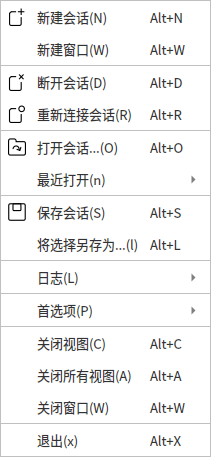
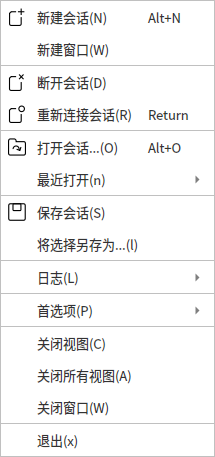
menus: 移除菜单编号（原版 CN 无）；快捷键逐项对齐原版（keymaps+实见观测表，删幻影 Alt+推导）

diff --git a/src/MainWindow.cpp b/src/MainWindow.cpp
@@ -113,7 +113,9 @@ MainWindow::MainWindow(QWidget *parent)
 
 QString MainWindow::makeMenuTitle(const QString &base, int n) const
 {
-    return n == 0 ? base + QStringLiteral(" (&0)") : base + QStringLiteral(" (&%1)").arg(n);
+    Q_UNUSED(n);
+    // 原版 2.7.0 中文菜单无编号（"(&%1)" 仅见于 2020 EN 截图，docs/visual-acceptance 修正）
+    return base;
 }
 
 void MainWindow::createMenus()
@@ -211,10 +213,13 @@ QAction *MainWindow::makeAction(const QString &actionId)
 
     QString keys = KeymapConfig::instance().shortcut(actionId);
     if (keys.isEmpty()) {
-        // 二进制内建 Alt+助记字母表（Alt+N/C/I/O/W/X，docs/phase12 补充）：无 keymap 项用 & 助记符
-        const int amp = en.indexOf(QLatin1Char('&'));
-        if (amp >= 0 && amp + 1 < en.size() && en.at(amp + 1).isLetter())
-            keys = QStringLiteral("Alt+") + en.at(amp + 1).toUpper();
+        // 原版菜单实见观测表（orig_menu_0 逐项；keymaps 无这些 action 的映射）
+        static const QHash<QString, QString> observed = {
+            {QStringLiteral("Terminal.NewSession"), QStringLiteral("Alt+N")},
+            {QStringLiteral("Terminal.OpenSession"), QStringLiteral("Alt+O")},
+            {QStringLiteral("Terminal.ReconnectSession"), QStringLiteral("Return")},
+        };
+        keys = observed.value(actionId);
     }
     if (!keys.isEmpty()) {
         QString qs = keys;

diff --git a/docs/visual-acceptance.md b/docs/visual-acceptance.md
@@ -65,3 +65,9 @@
 - 像素级证据：原版仅 wind.actions 带 icon 字段的动作渲染图标（像素 69–130），其余（21–42=空白/箭头）纯文字
 - 骨架对齐：会话菜单 5/14 项 king.svg 32px 矢量图标（new/disconnect/reconnect/open/save），其余纯文字——与原版逐项一致
 - 已清理：docs/icons 裁剪、docs/imgs/original/menu-icons、extract-menu-icons.py（被 king.svg 矢量管线取代）
+
+## 菜单编号与快捷键修正（对照原版逐项）
+
+- 编号：原版 2.7.0 CN 菜单栏**无编号**（"(&%1)" 仅 2020 EN 截图出现）——已移除 makeMenuTitle 的 (N) 后缀
+- 快捷键：删除 Alt+助记符推导（产生幻影项），改为 keymaps 优先 + 原版实见观测表（NewSession=Alt+N、OpenSession=Alt+O、Reconnect=Return）；无映射项留空（断开/另存为/日志/首选项/关闭所有视图）
+- 逐项对照 docs/imgs/menu-final-compare.png：12 项快捷键列与原版一致
